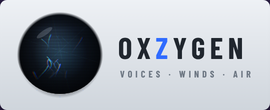
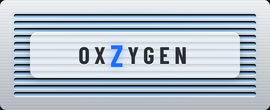
0.8.2: new Sounds screen card (vent slats behind a nameplate) for the chamber UI
Claude-Session: https://claude.ai/code/session_01JcLVG4HPbzGWwACmKsj6RZ

diff --git a/docs/releases/v0.8.2.md b/docs/releases/v0.8.2.md
@@ -1,0 +1,6 @@
+# OxZygen v0.8.2
+
+## What's new
+- **New card on the MPC Sounds screen:** the OXZYGEN tile now matches the current look, with the chamber's lit vent slats behind a brushed-metal nameplate, replacing the old orb picture.
+
+Sound, presets and saved projects are unchanged.
